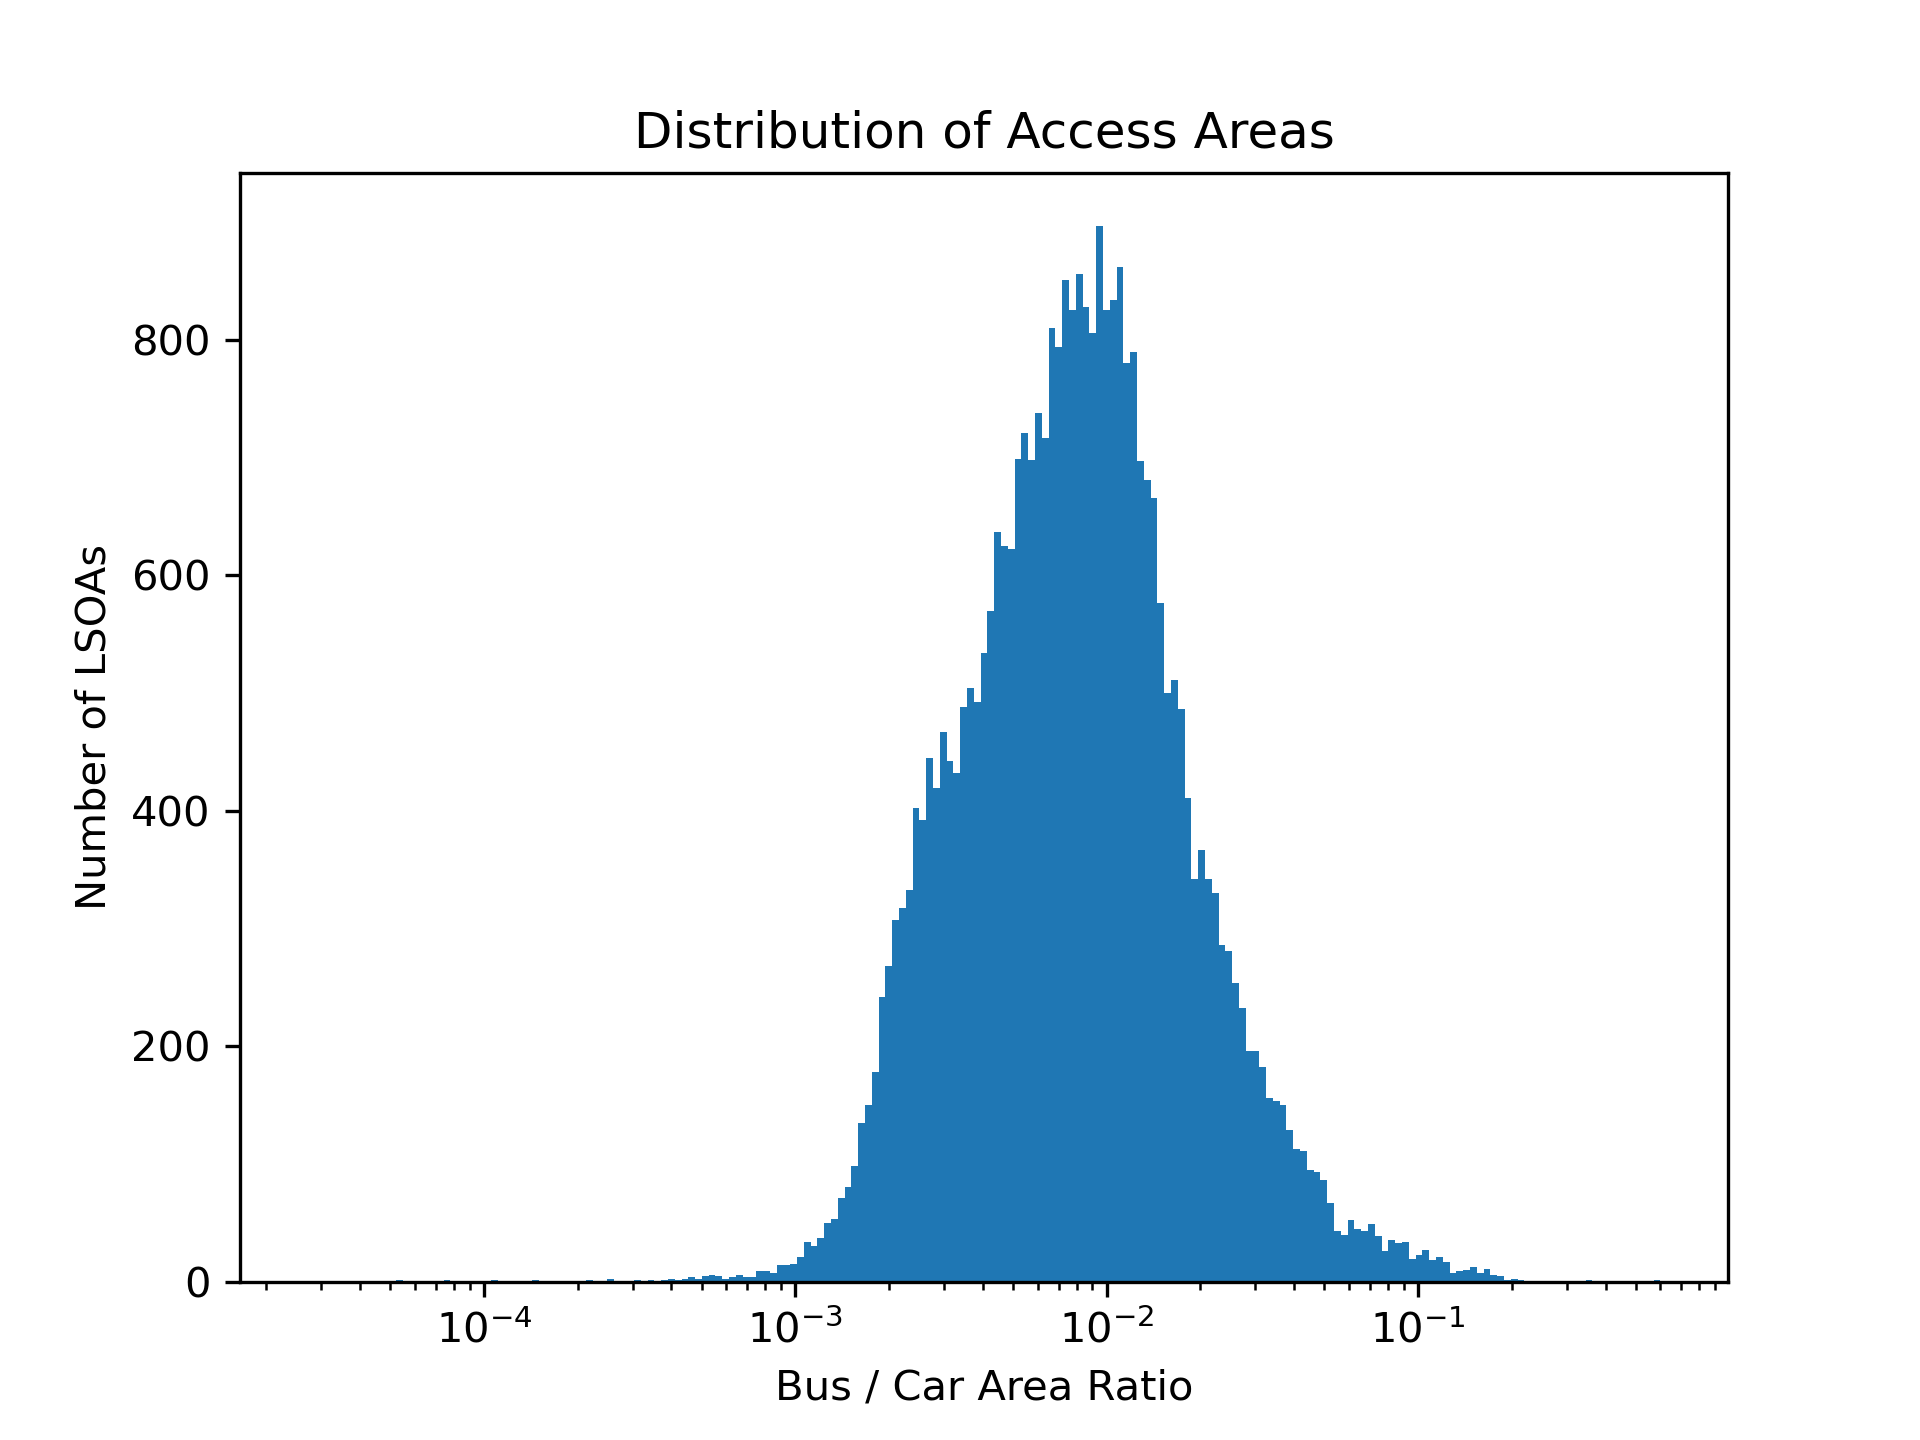
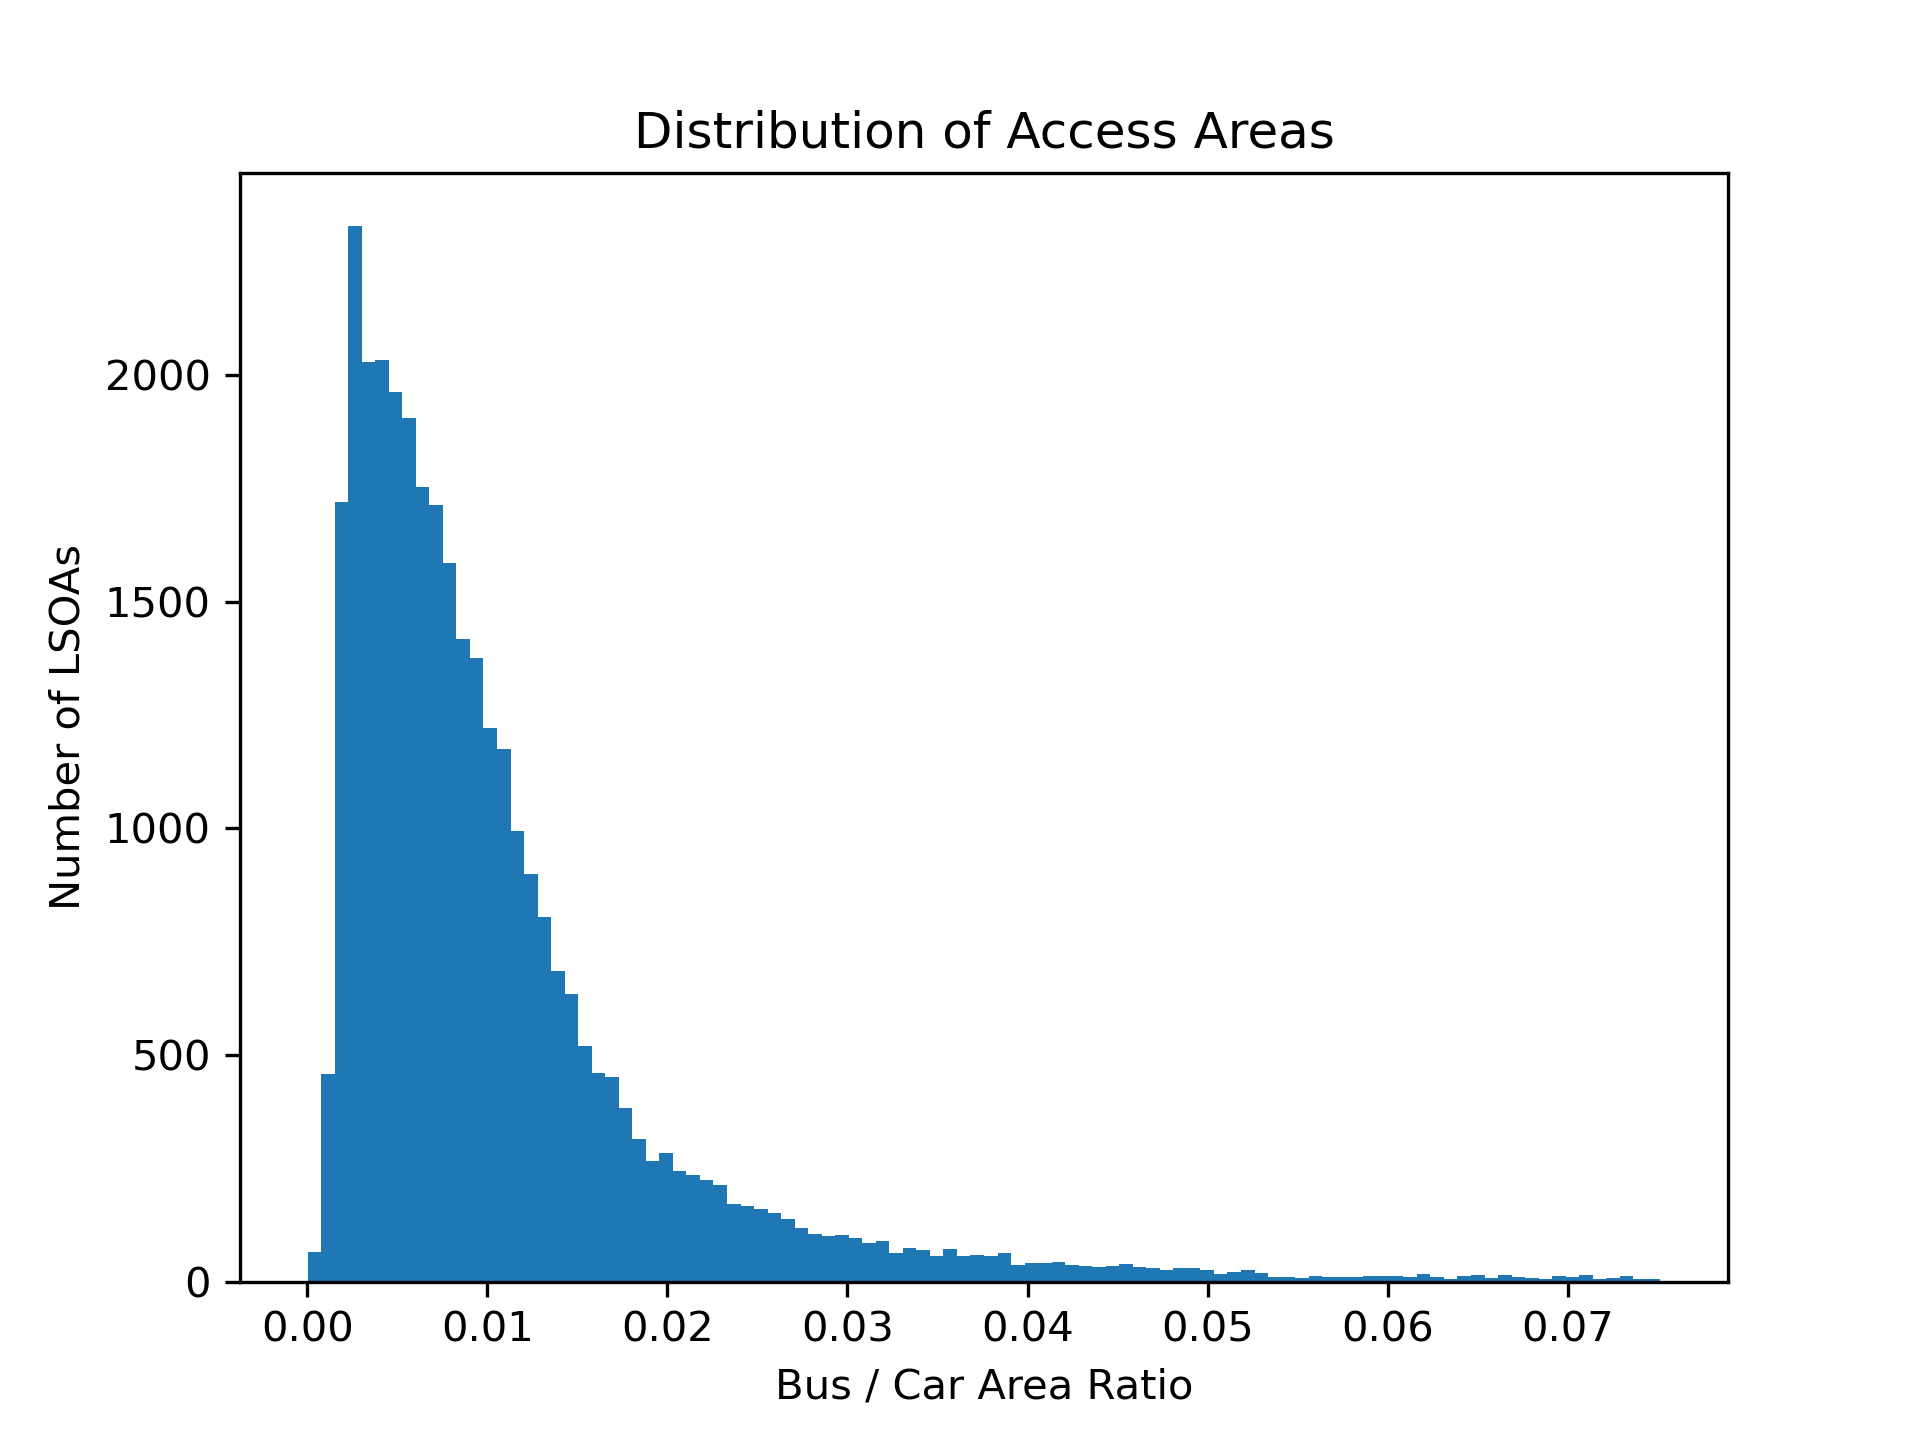
Output both area ratio histogram with normal axis (99th percentile) and log axis for comparison

diff --git a/plotting/area_ratio_histogram.py b/plotting/area_ratio_histogram.py
@@ -1,15 +1,36 @@
 import numpy as np
 import pandas as pd
-import geopandas as gpd
 import matplotlib.pyplot as plt
-from common.data import OUT_DIR, load_dataset, Datasets
-
-# Load boundaries
-lsoas = load_dataset(Datasets.LSOA_BOUNDARIES)
+from common.data import OUT_DIR
 
 # Load area indicator values
 areas = pd.read_csv(OUT_DIR / "areas.csv")
-areas: gpd.GeoDataFrame = lsoas.merge(areas, on="id")
+
+
+# ---------------------
+#
+#     NORMAL AXIS
+#
+# ---------------------
+
+# Plot ratio on a normal scale
+plt.hist(areas[areas['ratio'] < np.percentile(areas['ratio'], 99)]['ratio'], bins=100)
+
+# Add labels to graph
+plt.xlabel('Bus / Car Area Ratio')
+plt.ylabel('Number of LSOAs')
+plt.title('Distribution of Access Areas')
+
+# Save to png
+plt.savefig(OUT_DIR / 'plots' / 'area_ratio_histogram.png', dpi=300)
+plt.close()
+
+
+# ---------------------
+#
+#     LOG AXIS
+#
+# ---------------------
 
 # Create logarithmic bin distribution
 _, bins = np.histogram(areas['ratio'], bins=200)
@@ -25,4 +46,4 @@ plt.ylabel('Number of LSOAs')
 plt.title('Distribution of Access Areas')
 
 # Save to png
-plt.savefig(OUT_DIR / 'plots' / 'area_ratio_histogram.png', dpi=300)
+plt.savefig(OUT_DIR / 'plots' / 'area_ratio_histogram_log.png', dpi=300)
